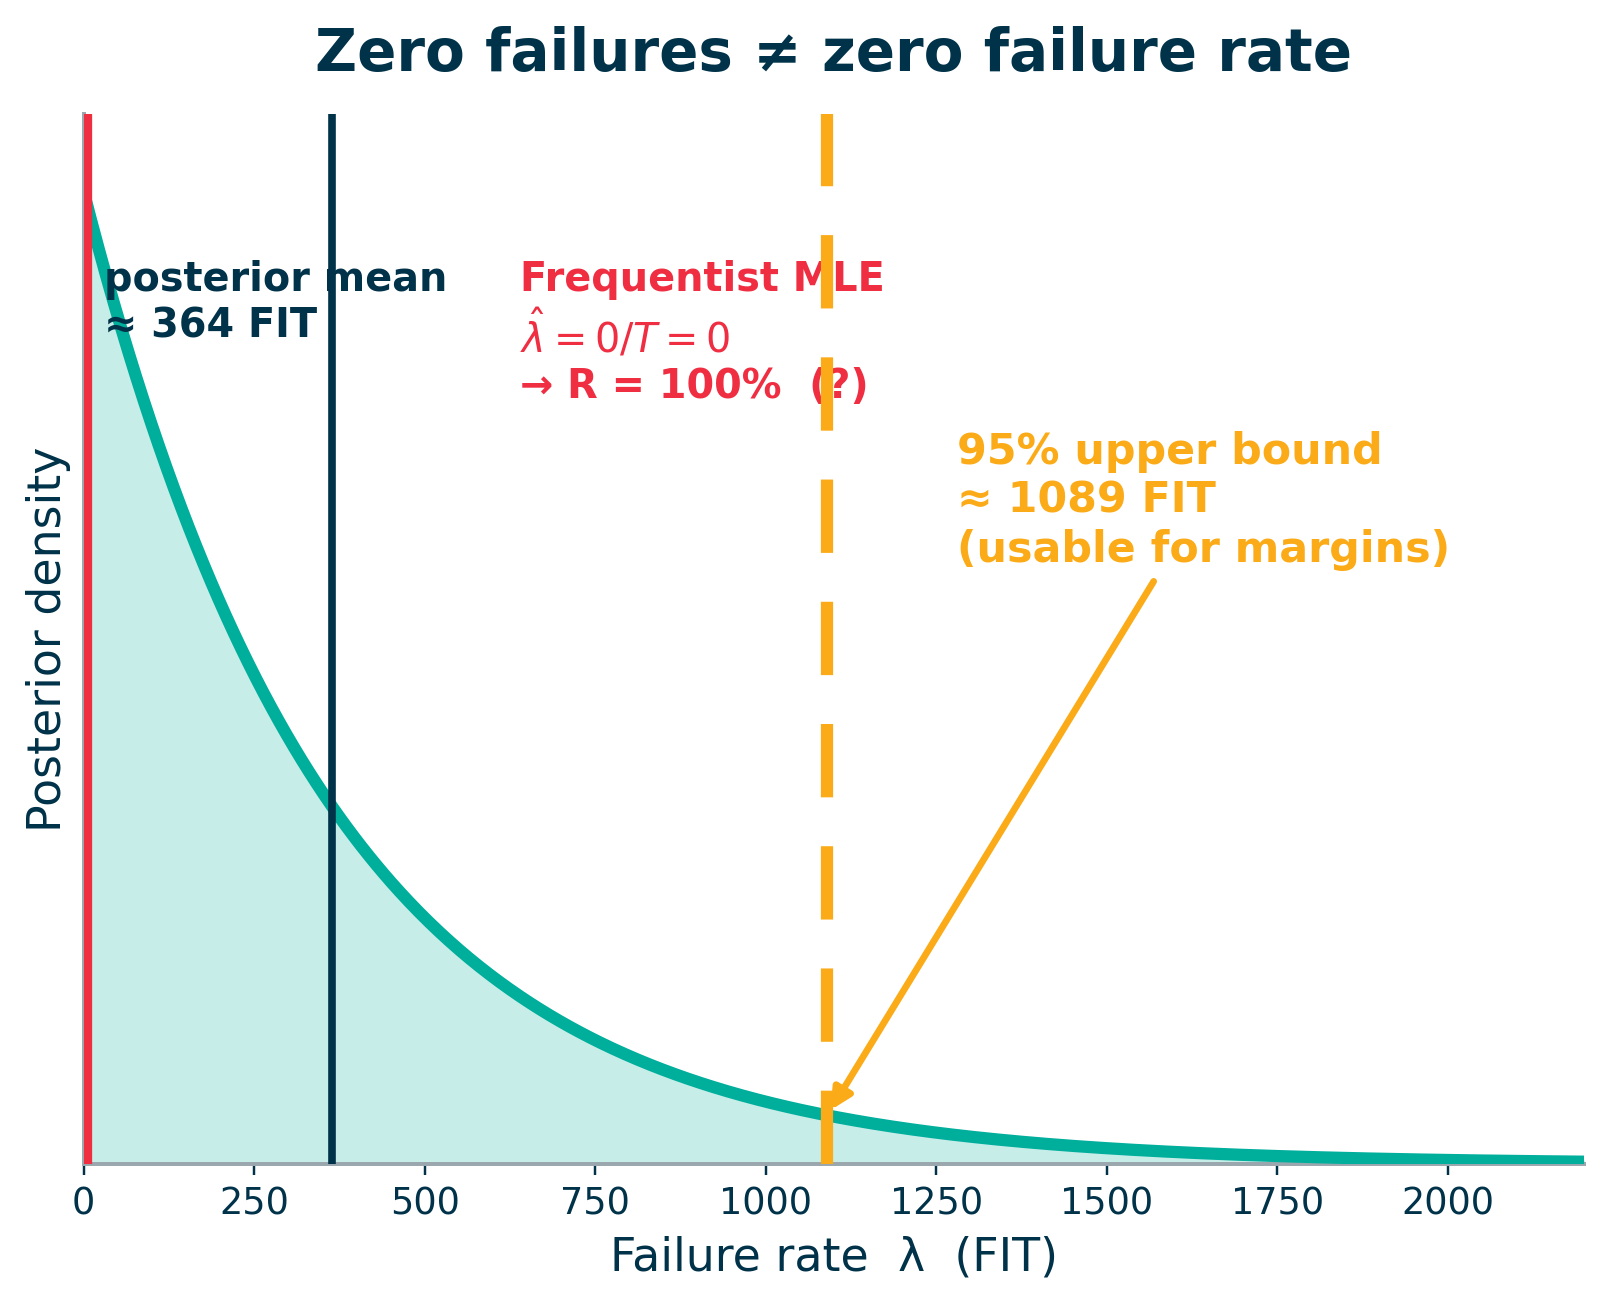
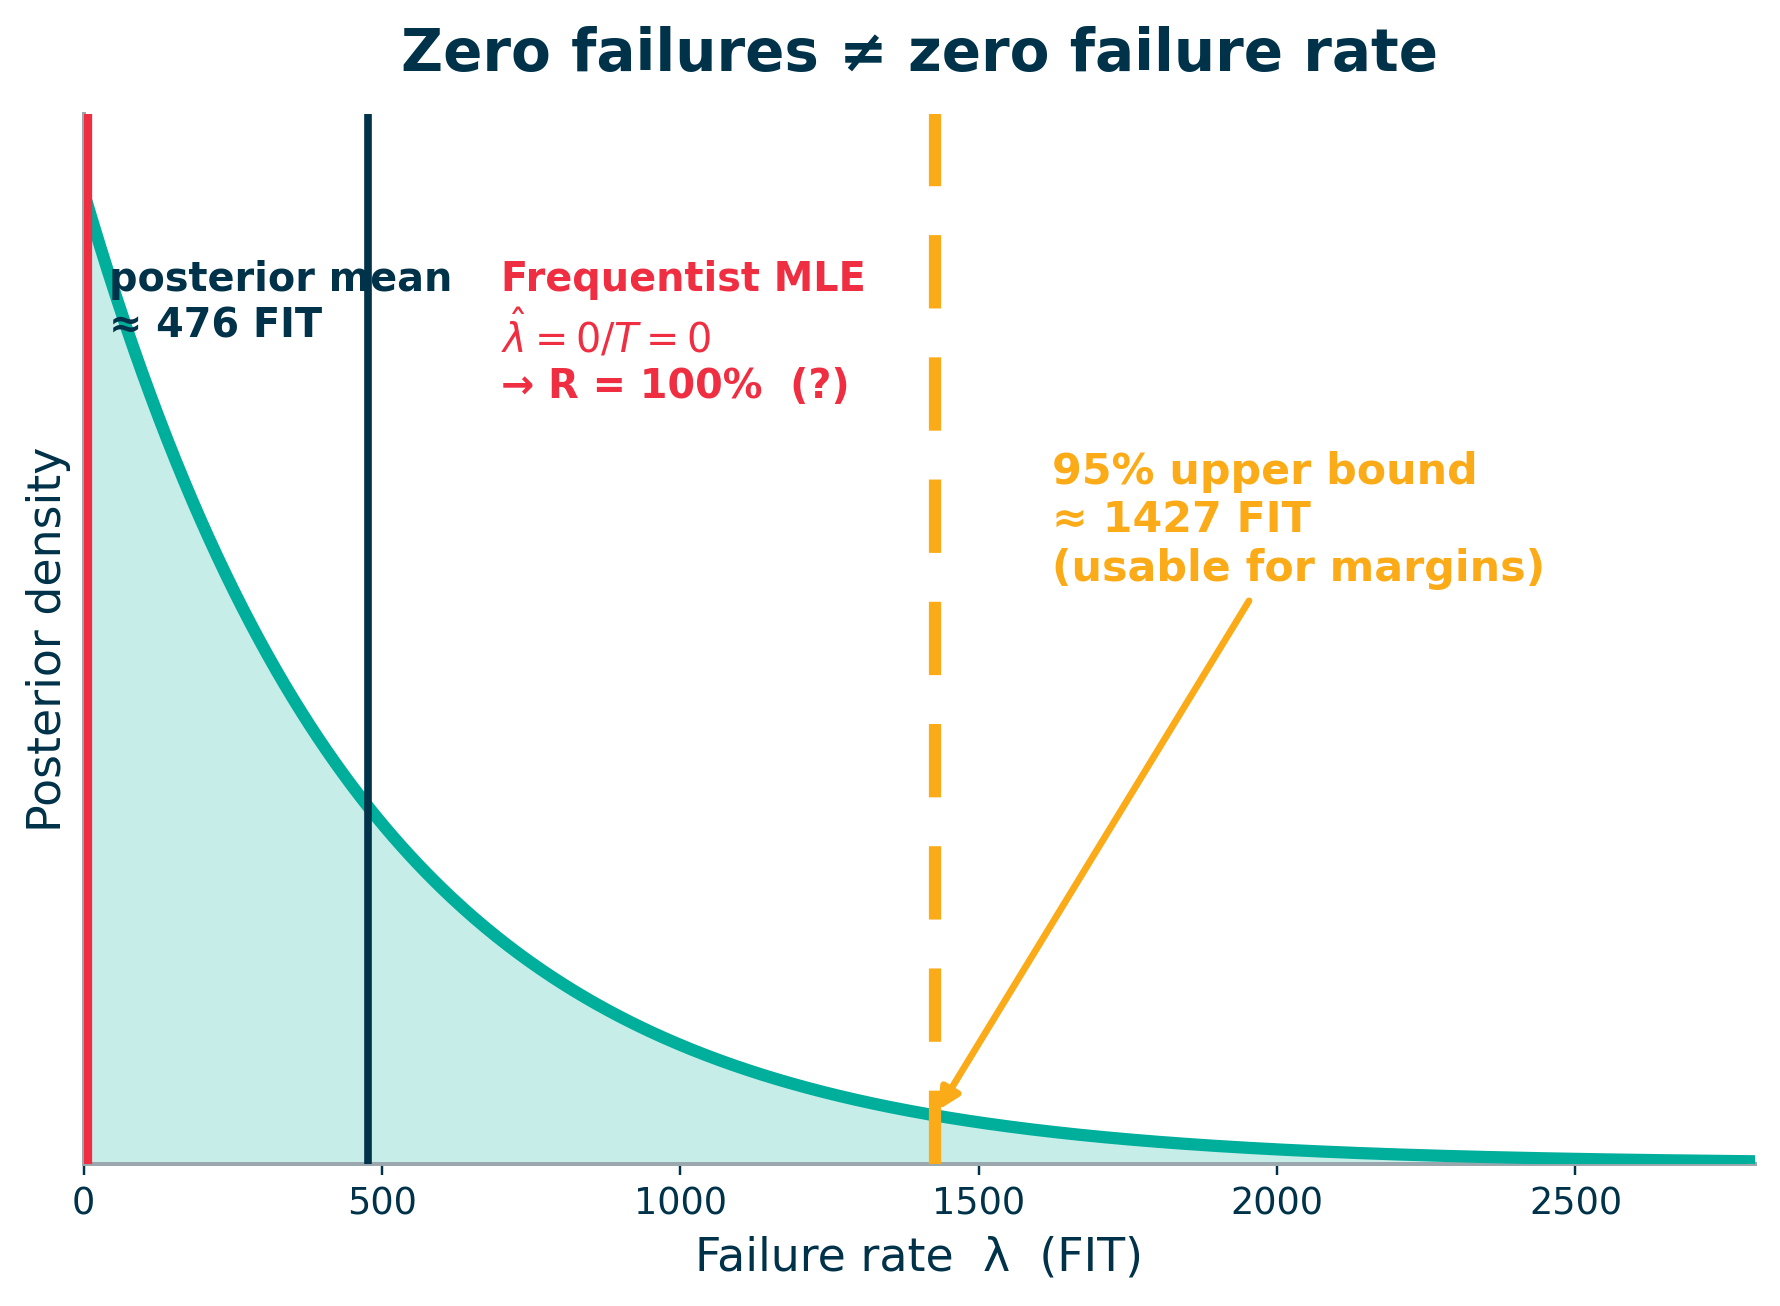
zf

diff --git a/graphs/slide04_zero_failures.py b/graphs/slide04_zero_failures.py
@@ -1,12 +1,16 @@
 """Slide 4 - "Zero failures != zero failure rate".
 
-A unit with T operating hours and ZERO failures. The classical MLE collapses to
-lambda = 0 (R = 100%, useless). The Bayesian posterior is a proper distribution
-with a sensible mean (~364 FIT) and, crucially, a 95% upper bound (~1089 FIT)
-you can actually design margins to.
+Worked example: a unit with a 500 FIT handbook prior that has flown
+100 000 operating hours with ZERO failures.
 
-Zero failures, weak prior -> posterior is an exponential (shape = 1) with
-mean 364 FIT.
+The classical MLE collapses to lambda = 0 (R = 100%, useless). The Bayesian
+posterior is a proper distribution with a sensible mean and, crucially, a 95%
+upper bound you can actually design margins to.
+
+Conjugate Gamma-Poisson update:  Gamma(a0, b0)  ->  Gamma(a0 + k, b0 + T).
+With a weak prior (a0 = 1) the posterior stays an exponential (shape = 1,
+monotonic decreasing) - and note how little 100 000 h moves a prior whose mean
+already implies failures only every ~2 million hours.
 """
 import numpy as np
 import matplotlib.pyplot as plt
@@ -16,37 +20,44 @@ from bayes_style import (apply_style, gamma_fit, finish,
 
 apply_style()
 
-# --- knobs --------------------------------------------------------------- #
-POST_MEAN   = 364.0     # FIT  -> posterior mean with zero failures
-POST_SHAPE  = 1.0       # shape = 1 -> exponential (monotonic decreasing)
-XMAX        = 2200      # FIT  -> x-axis extent
+# --- knobs (the worked example) ------------------------------------------ #
+PRIOR_FIT    = 500.0      # FIT  -> handbook / ECSS prior failure rate
+PRIOR_ALPHA  = 1.0        # prior strength = "equivalent prior failures"
+T_HOURS      = 100_000    # operating hours flown
+K_FAILURES   = 0          # observed failures  (zero -> the whole point)
+XMAX         = 2800       # FIT  -> x-axis extent
 # ------------------------------------------------------------------------- #
 
-# Gamma(shape, rate) with the requested mean, expressed over FIT.
-post = gamma_fit(POST_SHAPE, POST_SHAPE * 1e9 / POST_MEAN)
-ub95 = post.ppf(0.95)
+# Conjugate update: rate beta0 anchors the prior mean to PRIOR_FIT.
+beta0 = PRIOR_ALPHA * 1e9 / PRIOR_FIT
+post  = gamma_fit(PRIOR_ALPHA + K_FAILURES, beta0 + T_HOURS)
+mean  = post.mean()
+ub95  = post.ppf(0.95)
+print(f"prior {PRIOR_FIT:.0f} FIT, {K_FAILURES} failures in {T_HOURS:,} h"
+      f"  ->  posterior mean {mean:.0f} FIT, 95% upper bound {ub95:.0f} FIT")
 
 x = np.linspace(0, XMAX, 600)
 y = post.pdf(x)
 
-fig, ax = plt.subplots(figsize=(8.8, 6.2))
+fig, ax = plt.subplots(figsize=(9.8, 6.2))
 
 ax.fill_between(x, y, color=FILL, zorder=1)
 ax.plot(x, y, color=TEAL, lw=4.0, zorder=3)
 
 # vertical markers
-ax.axvline(0,        color=RED,   lw=5, zorder=4)                       # MLE = 0
-ax.axvline(POST_MEAN, color=NAVY, lw=2.5, zorder=4)                     # mean
-ax.axvline(ub95,     color=AMBER, lw=4, ls=(0, (6, 4)), zorder=4)      # 95% UB
+ax.axvline(0,    color=RED,   lw=5, zorder=4)                      # MLE = 0
+ax.axvline(mean, color=NAVY,  lw=2.5, zorder=4)                    # posterior mean
+ax.axvline(ub95, color=AMBER, lw=4, ls=(0, (6, 4)), zorder=4)     # 95% UB
 
 # annotations
-ax.text(30, y.max() * 0.93, "posterior mean\n≈ 364 FIT",
+ax.text(0.015 * XMAX, y.max() * 0.93, f"posterior mean\n≈ {mean:.0f} FIT",
         color=NAVY, fontsize=13, fontweight="bold", va="top")
-ax.text(640, y.max() * 0.93,
+ax.text(0.25 * XMAX, y.max() * 0.93,
         "Frequentist MLE\n$\\hat{\\lambda} = 0/T = 0$\n→ R = 100%  (?)",
         color=RED, fontsize=13, fontweight="bold", va="top")
-ax.annotate("95% upper bound\n≈ 1089 FIT\n(usable for margins)",
-            xy=(ub95, post.pdf(ub95)), xytext=(1280, y.max() * 0.62),
+ax.annotate(f"95% upper bound\n≈ {ub95:.0f} FIT\n(usable for margins)",
+            xy=(ub95, post.pdf(ub95)),
+            xytext=(ub95 + 0.07 * XMAX, y.max() * 0.60),
             color=AMBER, fontsize=14, fontweight="bold",
             arrowprops=dict(arrowstyle="-|>", color=AMBER, lw=2.2))
 